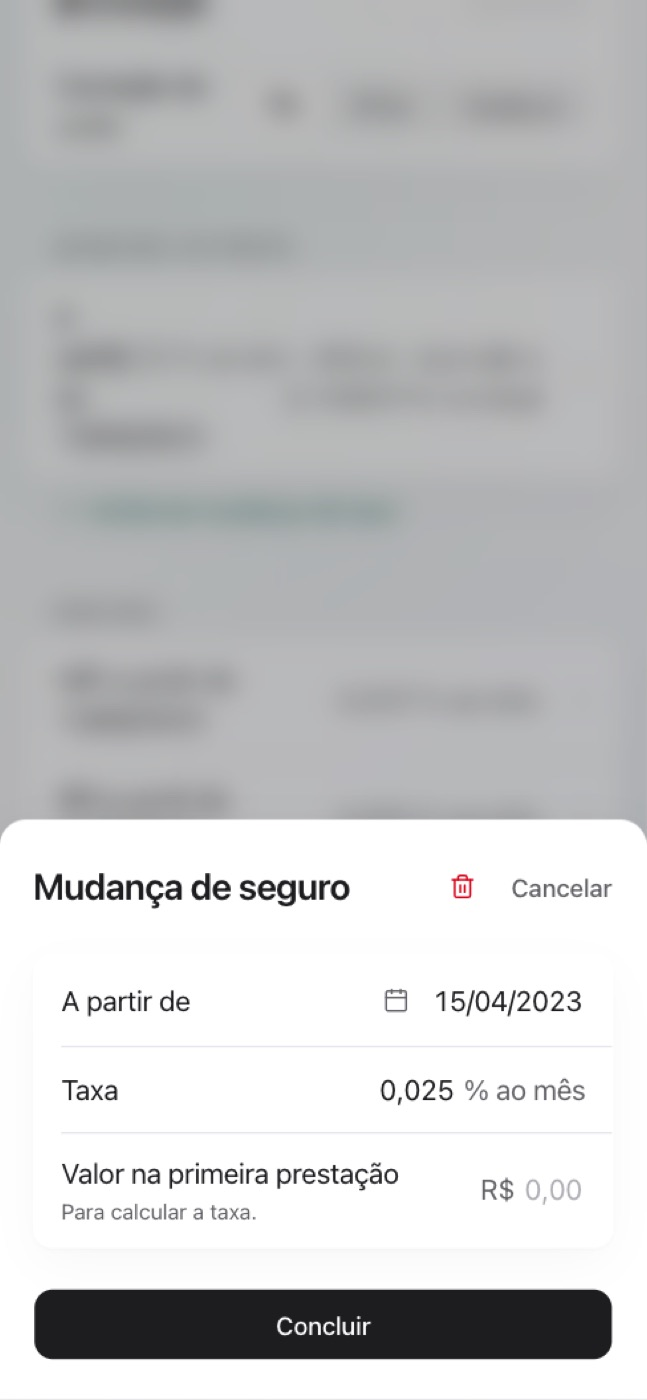
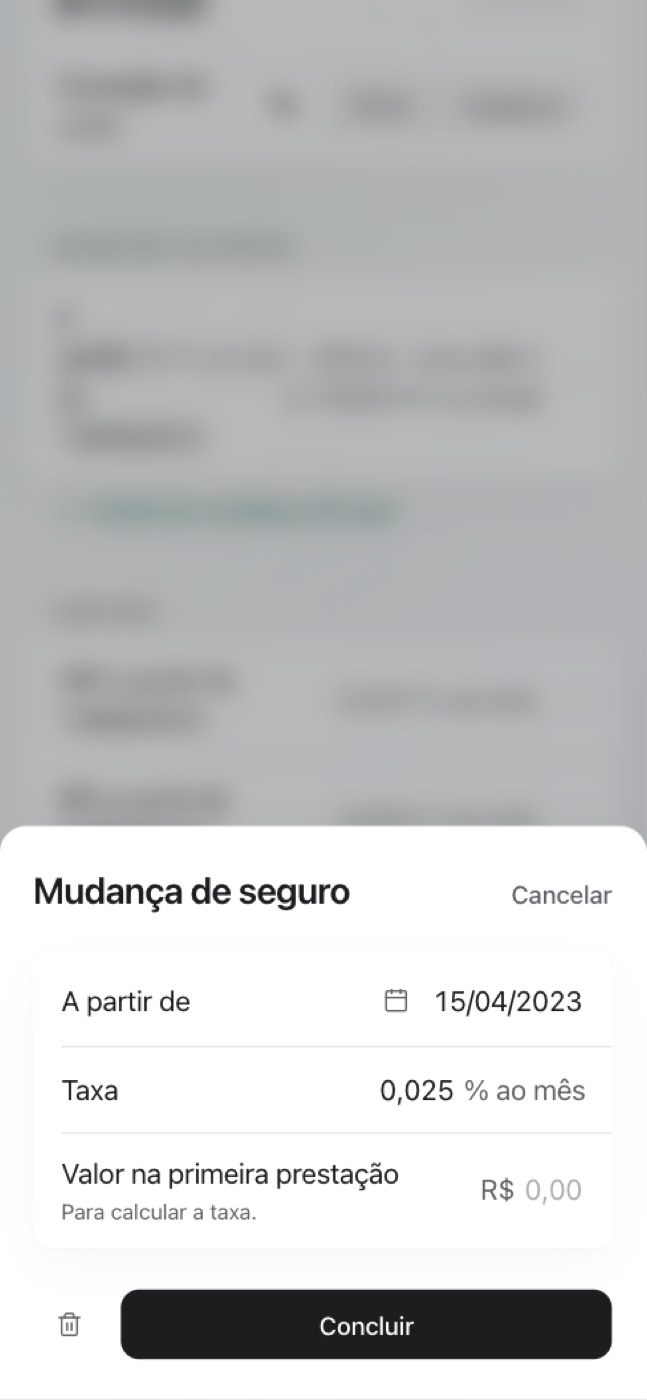
docs(design): keep Cancelar alone in the change sheet header
Variant B moves the remove action out of the header: "Cancelar" stays
the header's one action, and removal is a grey trash icon beside
"Concluir".

Changed region(s): [[0.0, 0.5836, 1.0, 0.6757], [0.0309, 0.9214, 0.2164, 0.9829], [0.4328, 0.9214, 0.6491, 0.9521]]

diff --git a/frontend/src/pages/contract/ChangeSheet.tsx b/frontend/src/pages/contract/ChangeSheet.tsx
@@ -191,25 +191,11 @@ export function ChangeSheet(props: ChangeSheetProps) {
         >
           <DialogHeader>
             <DialogTitle>{titles[change.list]}</DialogTitle>
-            <span className="flex items-center gap-3">
-              {proto && onRemove && (
-                <Button
-                  type="button"
-                  variant="plain-destructive"
-                  size="icon-sm"
-                  aria-label="Remover mudança"
-                  title="Remover mudança"
-                  onClick={onRemove}
-                >
-                  <Trash2Icon aria-hidden="true" strokeWidth={1.75} />
-                </Button>
-              )}
-              <DialogClose asChild>
-                <Button type="button" variant="plain" size="inline">
-                  Cancelar
-                </Button>
-              </DialogClose>
-            </span>
+            <DialogClose asChild>
+              <Button type="button" variant="plain" size="inline">
+                Cancelar
+              </Button>
+            </DialogClose>
           </DialogHeader>
           <GroupedList>
             {insurance && (
@@ -236,11 +222,33 @@ export function ChangeSheet(props: ChangeSheetProps) {
             <ChangeFields {...props} />
           </GroupedList>
           <DialogFooter>
-            <Button type="submit">Concluir</Button>
-            {!proto && onRemove && (
-              <Button type="button" variant="destructive" onClick={onRemove}>
-                Remover mudança
-              </Button>
+            {proto ? (
+              <div className="flex items-center gap-2">
+                {onRemove && (
+                  <Button
+                    type="button"
+                    variant="plain"
+                    size="icon"
+                    aria-label="Remover mudança"
+                    title="Remover mudança"
+                    onClick={onRemove}
+                  >
+                    <Trash2Icon aria-hidden="true" strokeWidth={1.75} />
+                  </Button>
+                )}
+                <Button type="submit" className="flex-1">
+                  Concluir
+                </Button>
+              </div>
+            ) : (
+              <>
+                <Button type="submit">Concluir</Button>
+                {onRemove && (
+                  <Button type="button" variant="destructive" onClick={onRemove}>
+                    Remover mudança
+                  </Button>
+                )}
+              </>
             )}
           </DialogFooter>
         </form>

diff --git a/docs/design-exploration/README.md b/docs/design-exploration/README.md
@@ -341,7 +341,7 @@ These came from the owner's review of the first round. Each is fixed in B and co
 | Dates read "04/15/2023" | `<input type="date">` writes dates in the **browser's** language, whatever the page's language. An English system shows mm/dd/yyyy | a dd/mm/aaaa text field with a numeric keyboard and a calendar button that still opens the native picker | the same in every browser language (`after-q-contrato-B.jpg`) |
 | Values misaligned; "R$" far from the amount | every inline input is a fixed 144px box with right-aligned text, so a prefix sits at the box's left edge; date inputs lay out their own segments | inputs are as wide as their text (`field-sizing: content`), so value and units form one group on the row's trailing edge | gap between "R$" and the amount on Contrato: 74px → 6px; every value group ends 16px from the row edge (`before-q-contrato-A.jpg`, `after-q-contrato-B.jpg`) |
 | Money without cents ("480.000") | the form keeps what the API sends or the owner types | money fields show two places when not being edited and complete them on focus and blur ("480.000,00") | — |
-| The change sheet's hint wraps; "Remover mudança" is a full-width tinted button competing with "Concluir" | long hint beside a 144px input; the destructive action styled as a second primary | the hint is "Para calcular a taxa.", since the label already names the amount. Removal is a red trash icon beside "Cancelar" (accessible name "Remover mudança"), so "Concluir" is the only button | hint 2 lines → 1 line at 1280px and 390px (`before-q-changesheet-A.jpg`, `after-q-changesheet-B.jpg`, `after-q-changesheet-B-390.jpg`) |
+| The change sheet's hint wraps; "Remover mudança" is a full-width tinted button competing with "Concluir" | long hint beside a 144px input; the destructive action styled as a second primary | the hint is "Para calcular a taxa.", since the label already names the amount. The header keeps "Cancelar" as its only action; removal is a grey 44px trash icon left of "Concluir" (accessible name "Remover mudança") | hint 2 lines → 1 line at 1280px and 390px; footer buttons 2 → 1 plus the icon (`before-q-changesheet-A.jpg`, `after-q-changesheet-B.jpg`, `after-q-changesheet-B-390.jpg`) |
 
 **Checked by hand:**
 - Typing "01052023" gives 01/05/2023, and the row updates on "Concluir".
@@ -351,7 +351,7 @@ These came from the owner's review of the first round. Each is fixed in B and co
 - Contrato stays at scrollWidth 390 on a phone.
 
 **Tradeoffs and open points:**
-- **Trash icon:** an icon-only destructive action is less discoverable than a labelled one. It is acceptable here because removing a change is undone by the page's "Cancelar" until "Salvar". For deletions that save at once (a prepayment, a lot), keep the labelled confirmation.
+- **Trash icon:** in a first pass the icon sat red in the header beside "Cancelar". The owner rejected both: two header actions, and red drawing the eye to the least common action. It is now grey (`#636366`, 5.9:1 on white) in the footer, while "Cancelar" stays the one header action and the only visible way out without changes. An icon-only destructive action is less discoverable than a labelled one. That is acceptable here because the page's "Cancelar" undoes a removal until "Salvar". For deletions that save at once (a prepayment, a lot), keep the labelled confirmation.
 - **Touch:** Radix tooltips don't open on touch, so a phone can't see a projected reading's period. A tap-to-open popover is the fix if this is adopted. The method is still stated above the table.
 - **Date field:** the prototype selects the whole date on focus and starts over when typed past; editing one digit in the middle isn't handled. A production version should validate impossible dates (31/02) in the browser, not only on the server.
 - **Firefox:** `field-sizing: content` isn't supported there yet. Inputs fall back to their fixed width, which is today's look.
@@ -383,7 +383,7 @@ The specification itself isn't edited here. If the recommendations are adopted, 
   - Typed values hug their text, so value and units share the row's trailing edge.
   - Dates are typed as dd/mm/aaaa regardless of the browser's language.
   - Money shows two decimal places.
-  - In change sheets, removal is a trash icon beside "Cancelar".
+  - In change sheets, "Cancelar" is the header's one action, and removal is a grey trash icon beside "Concluir".
   - A projected index reads grey with its period and method on demand.
   - Horizons read in words, never as negative amounts.
 - **Voice:** add "near-ties are named as such" and "no signed amounts in prose".
